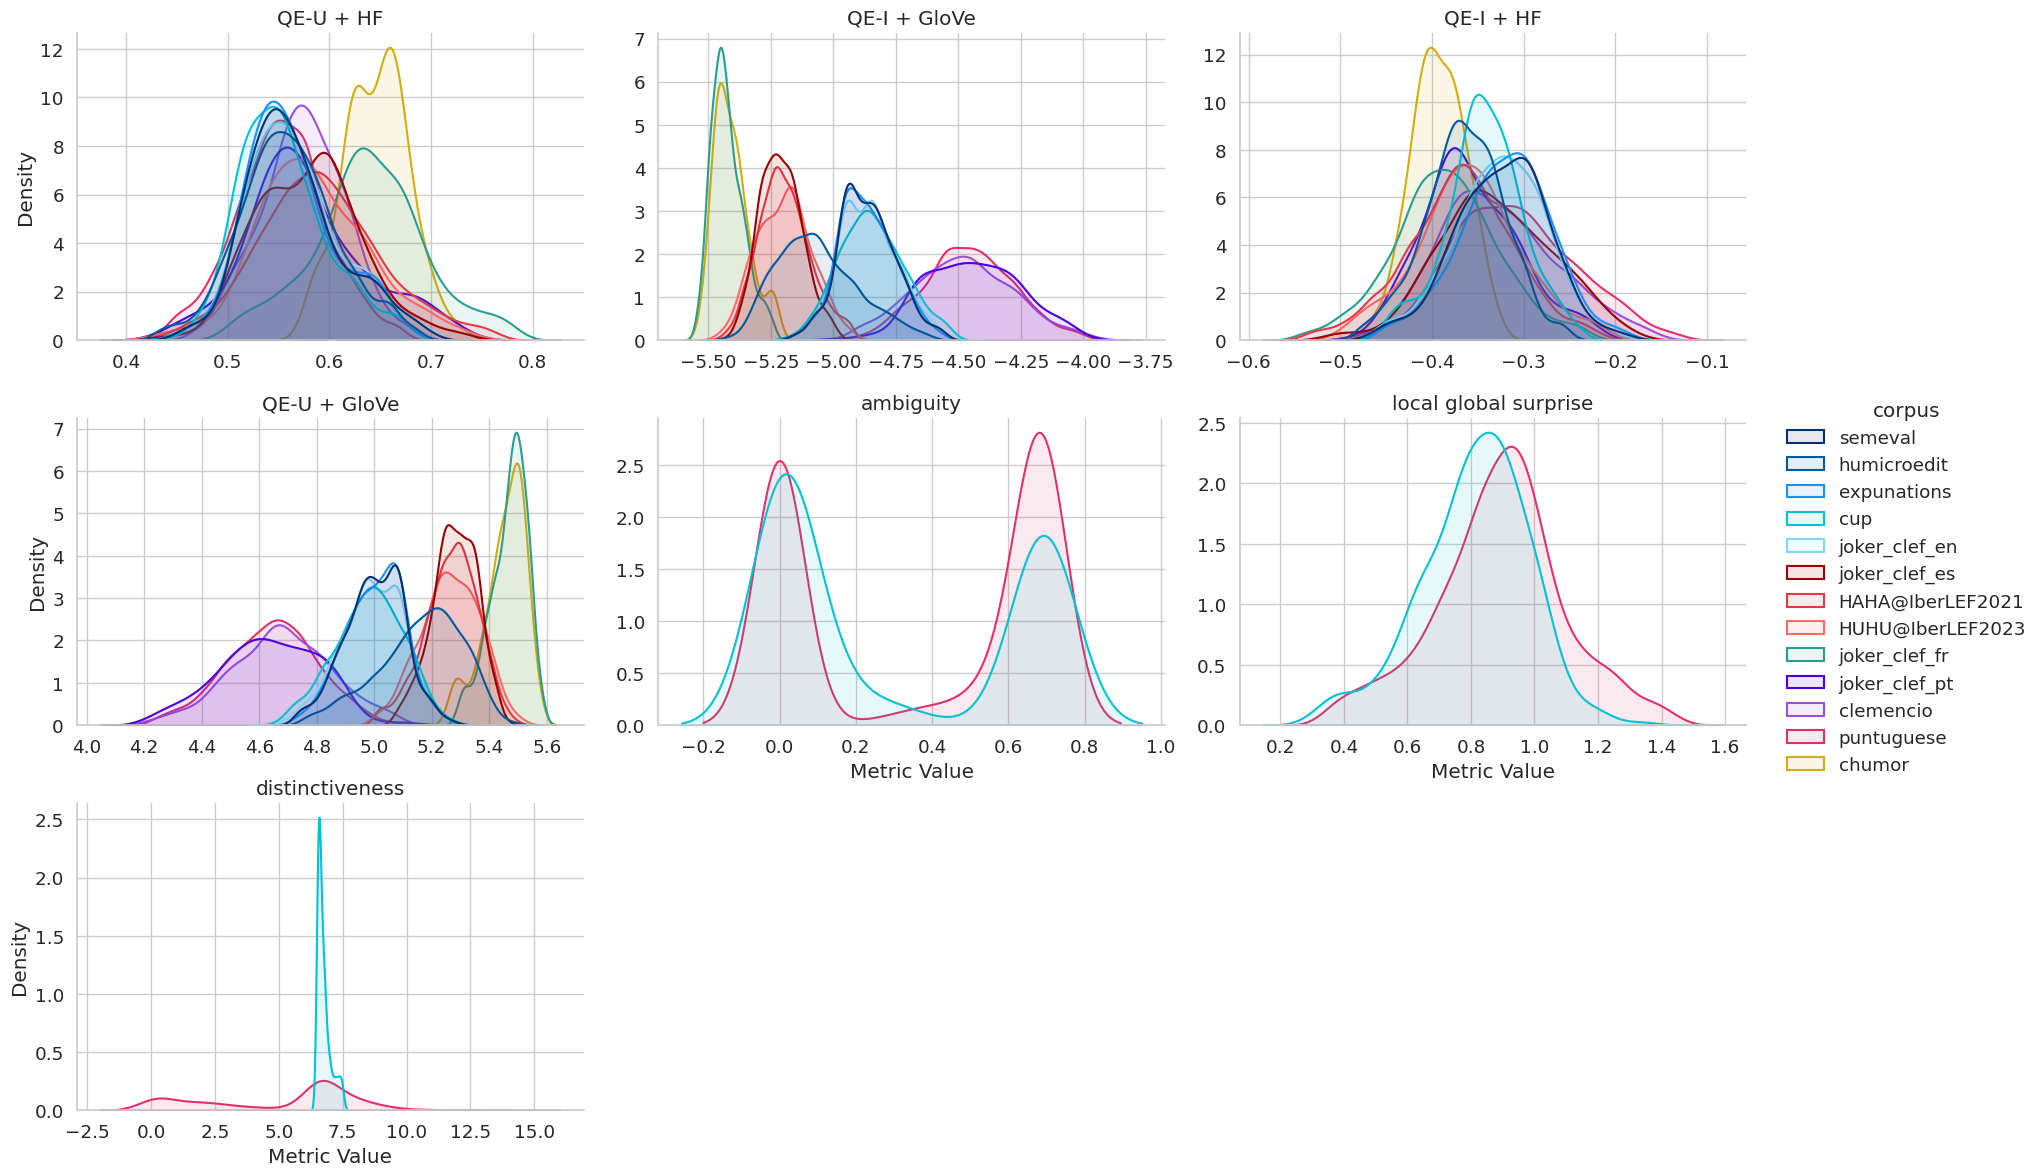
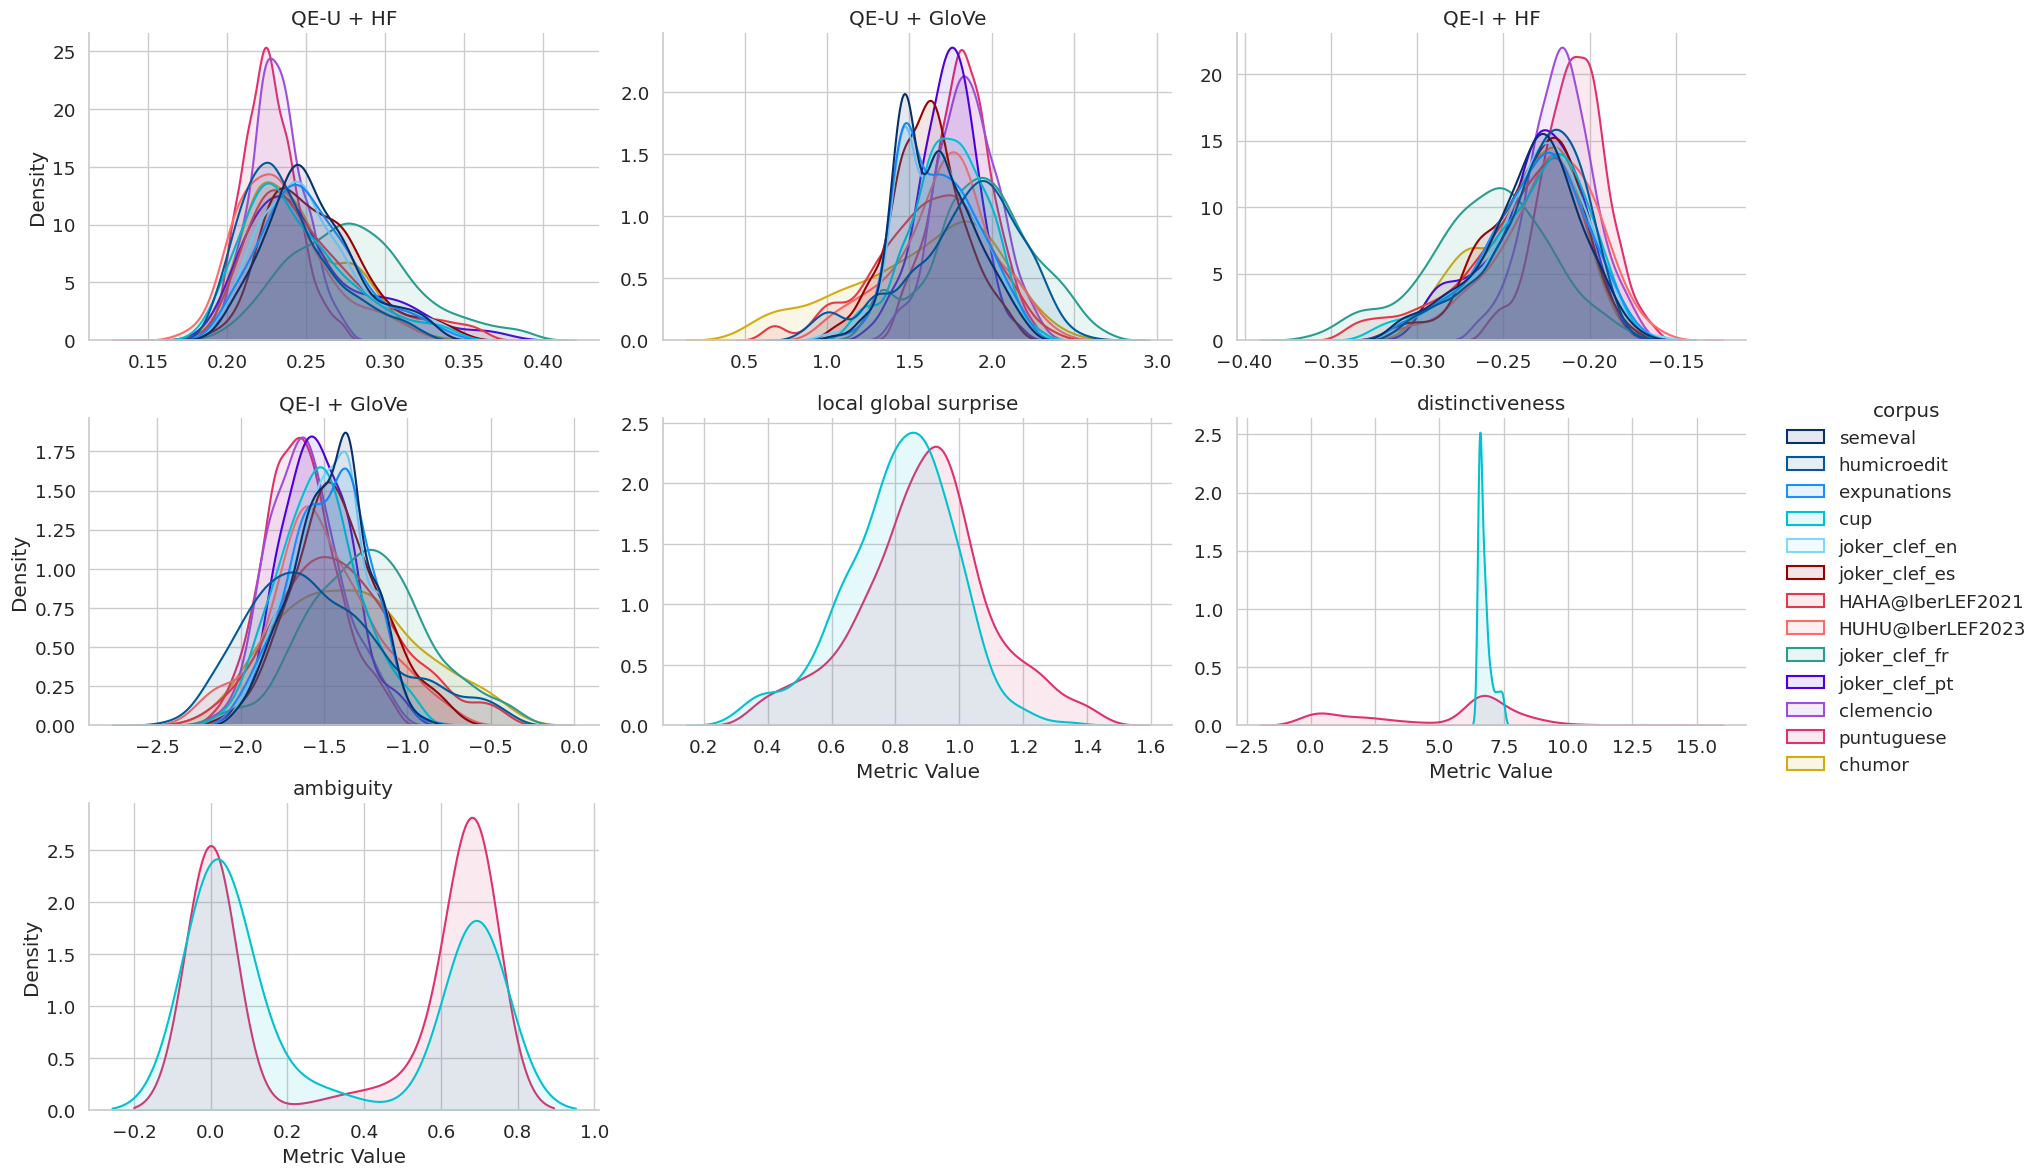
Update analysis and ignore marimo sessions

diff --git a/scripts/analyses/rq2_representation_tradeoffs.py b/scripts/analyses/rq2_representation_tradeoffs.py
@@ -100,6 +100,96 @@ def _(df, pl):
 @app.cell(hide_code=True)
 def _(mo):
     mo.md(r"""
+    ## Premliminary analysis
+    """)
+    return
+
+
+@app.cell(hide_code=True)
+def _(mo):
+    mo.md(r"""
+    ### Correlation
+    """)
+    return
+
+
+@app.cell
+def _(df_unpivot, mo, pl):
+    mo.ui.table(
+        df_unpivot
+        .pivot('metric', index=['index', 'label', 'corpus'])
+        .group_by(['corpus', 'label'])
+        .agg(pl.corr('QE-I + HF', 'QE-U + HF').alias('correlation'))
+        .sort('corpus', 'label')
+        .pivot('label', values='correlation'),
+        selection=None,
+        pagination=False,
+        format_mapping={
+            'Humor': '{:.3g}',
+            'Non-humor': '{:.3g}'
+        }
+    )
+    return
+
+
+@app.cell(hide_code=True)
+def _(mo):
+    mo.md(r"""
+    How many sentences have $I(\vec{w}) = -U(\vec{w})$?
+    """)
+    return
+
+
+@app.cell
+def _(df_unpivot, pl):
+    (
+        df_unpivot
+        .pivot('metric', values='value')
+        .filter(pl.col('QE-I + HF') == -pl.col('QE-U + HF'))
+        .height
+    )
+    return
+
+
+@app.cell(hide_code=True)
+def _(mo):
+    mo.md(r"""
+    And how are the values of $U(\vec{s}\vec{p}) = I(\vec{w}) + U(\vec{w})$ distributed?
+    """)
+    return
+
+
+@app.cell
+def _(df_unpivot, mo, pl):
+    mo.ui.table(
+        df_unpivot
+        .pivot('metric', values='value')
+        .with_columns(
+            (pl.col('QE-I + HF') + pl.col('QE-U + HF')).alias('sp entropy')
+        )
+        .group_by(['corpus', 'label'])
+        .agg(
+            pl.col('sp entropy').mean().alias('avg sp entropy'),
+            pl.col('sp entropy').quantile(0.25).alias('sp entropy Q1'),
+            pl.col('sp entropy').quantile(0.5).alias('sp entropy Q2'),
+            pl.col('sp entropy').quantile(0.75).alias('sp entropy Q3')
+        )
+        .sort('corpus', 'label'),
+        selection=None,
+        pagination=False,
+        format_mapping={
+            'avg sp entropy': '{:.4g}',
+            'sp entropy Q1': '{:.4g}',
+            'sp entropy Q2': '{:.4g}',
+            'sp entropy Q3': '{:.4g}',
+        }
+    )
+    return
+
+
+@app.cell(hide_code=True)
+def _(mo):
+    mo.md(r"""
     ## Plots
     """)
     return
@@ -120,6 +210,7 @@ def _(df_unpivot, mo, plt, sns):
         density_norm="width",
         sharex=False,
         linewidth=1,
+        col_order=['QE-U + HF', 'QE-I + HF']
     )
 
     _g.fig.suptitle("Quantum Entropy metrics using multilingual embeddings")
@@ -129,6 +220,12 @@ def _(df_unpivot, mo, plt, sns):
         _label = "Incongruity" if _metric_name.startswith("QE-I") else "Uncertainty"
         _ax.set_xlabel(_label)
     _g.legend.set_title("Label")
+    _separator_positions = [3.5, 6.5, 7.5, 10.5]
+    for _ax in _g.axes.flat:
+        for _y_pos in _separator_positions:
+            _ax.axhline(
+                _y_pos, color="gray", linestyle="--", linewidth=1, alpha=0.5, zorder=0
+            )
     mo.mpl.interactive(plt.gcf())
     return
 

diff --git a/scripts/analyses/rq3_stability.py b/scripts/analyses/rq3_stability.py
@@ -116,6 +116,14 @@ def _(mo):
     return
 
 
+@app.cell(hide_code=True)
+def _(mo):
+    mo.md(r"""
+    Quantiles before removing outliers
+    """)
+    return
+
+
 @app.cell
 def _(df, mo, pl):
     quantiles = (
@@ -148,8 +156,16 @@ def _(df, mo, pl):
     return (quantiles,)
 
 
+@app.cell(hide_code=True)
+def _(mo):
+    mo.md(r"""
+    Quantiles after removing outliers
+    """)
+    return
+
+
 @app.cell
-def _(df, pl, quantiles):
+def _(df, mo, pl, quantiles):
     df_with_quantiles = df.join(quantiles, on=["corpus", "metric"])
     is_low_outlier = pl.col("value") < pl.col("F1")
     is_high_outlier = pl.col("value") > pl.col("F2")
@@ -157,8 +173,61 @@ def _(df, pl, quantiles):
         ~(is_low_outlier | is_high_outlier)
     ).select(df.columns)
 
-    df_no_outliers.group_by(["corpus", "metric"], maintain_order=True).len()
+    _df_no_outliers_quantiles = (
+        df.group_by(["corpus", "metric"])
+        .agg(
+            pl.col("value").quantile(0.25).alias("Q1"),
+            pl.col("value").quantile(0.5).alias("Q2"),
+            pl.col("value").quantile(0.75).alias("Q3"),
+        )
+        .with_columns((pl.col("Q3") - pl.col("Q1")).alias("IQR"))
+        .with_columns(
+            (pl.col("Q1") - 1.5 * pl.col("IQR")).alias("F1"),
+            (pl.col("Q3") + 1.5 * pl.col("IQR")).alias("F2"),
+        )
+    )
+
+    mo.ui.table(
+        _df_no_outliers_quantiles.sort("metric", "corpus"),
+        selection=None,
+        format_mapping={
+            "Q1": "{:.4g}",
+            "Q2": "{:.4g}",
+            "Q3": "{:.4g}",
+            "Q4": "{:.4g}",
+            "IQR": "{:.4g}",
+            "F1": "{:.4g}",
+            "F2": "{:.4g}",
+        },
+    )
     return (df_no_outliers,)
+
+
+@app.cell(hide_code=True)
+def _(mo):
+    mo.md(r"""
+    Mean and standard deviation without outliers
+    """)
+    return
+
+
+@app.cell
+def _(df_no_outliers, mo, pl):
+    mo.ui.table(
+        df_no_outliers
+        .group_by(['metric', 'corpus'])
+        .agg(
+            pl.col('value').mean().alias('mean'),
+            pl.col('value').std().alias('std')
+        )
+        .sort('metric', 'corpus'),
+        selection=None,
+        format_mapping={
+            'mean': '{:.3g}',
+            'std': '{:.3g}'
+        }
+    )
+    return
 
 
 @app.cell(hide_code=True)
